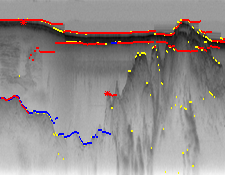
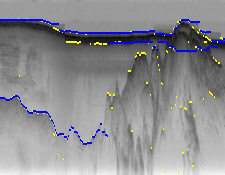
improvements in image 23

diff --git a/part2/polar.py b/part2/polar.py
@@ -29,15 +29,36 @@ def edge_strength(input_image):
 # @param: len: Total number of rows in one column
 def get_distance_distr(row1, len):
     diff =  [] 
+    dists = []
     for row in range(0,edge_strength.shape[0]):
-        dist = abs(row1-row)
-        diff.append(1/(2**dist+1))
+        dist = abs(row1-row)+1
+       
+        #diff.append(1/(2**dist+1))
+        if dist <=6:
+            diff.append(1/((dist+1)))
+        else:
+            diff.append(1/(exp(dist)))
+        # if dist <=3:
+        #     diff.append(dist+1)
+        # else:
+        #     diff.append(2**dist)
+        #diff.append(dist*log(dist))
+        dists.append(dist)
+
         """
         Some other distance distributions tried:
         1.) diff.append((len - dist)/len)
         2.) diff.append(1/(dist+1))
         """
     diff = diff/sum(diff)
+    #print(f'diff: {diff}')
+    #logdist = []
+    #print(len(dists))
+    # for i in range(edge_strength.shape[0]):
+    #     #if dists[i] <=2:
+    #         logdist.append(-diff[i]*np.log(diff[i]))
+    #     # else:
+    #     #     logdist.append(10000)
     return diff
 
 
@@ -76,8 +97,8 @@ def draw_asterisk(image, pt, color, thickness):
 def write_output_image(filename, image, simple, hmm, feedback, feedback_pt):
     new_image = draw_boundary(image, simple, (255, 255, 0), 2)
     new_image = draw_boundary(new_image, hmm, (0, 0, 255), 2)
-    new_image = draw_boundary(new_image, feedback, (255, 0, 0), 2)
-    new_image = draw_asterisk(new_image, feedback_pt, (255, 0, 0), 2)
+    #new_image = draw_boundary(new_image, feedback, (255, 0, 0), 2)
+    #new_image = draw_asterisk(new_image, feedback_pt, (255, 0, 0), 2)
     imageio.imwrite(filename, new_image)
 
 # generate air-ice and ice-rock boundary using simple bayes
@@ -133,7 +154,10 @@ def get_hmm_rows(edge_strength):
     for t in range(1, edge_strength.shape[1]):
             for row in range(median_air_ice_row+10, edge_strength.shape[0]):
                 distance_distr = get_distance_distr(row, edge_strength.shape[0])
+                #transition = distance_distr
                 transition = -log(distance_distr)
+                #print(f'row: {row}, dist: {distance_distr}, transition: {transition}')
+
                 V_table_ir[row, t] = min(V_table_ir[:,t-1]+transition+emission_probs[row, t])
     ridge1 = V_table_ir.argmin(axis=0)
     return (ridge,ridge1)
